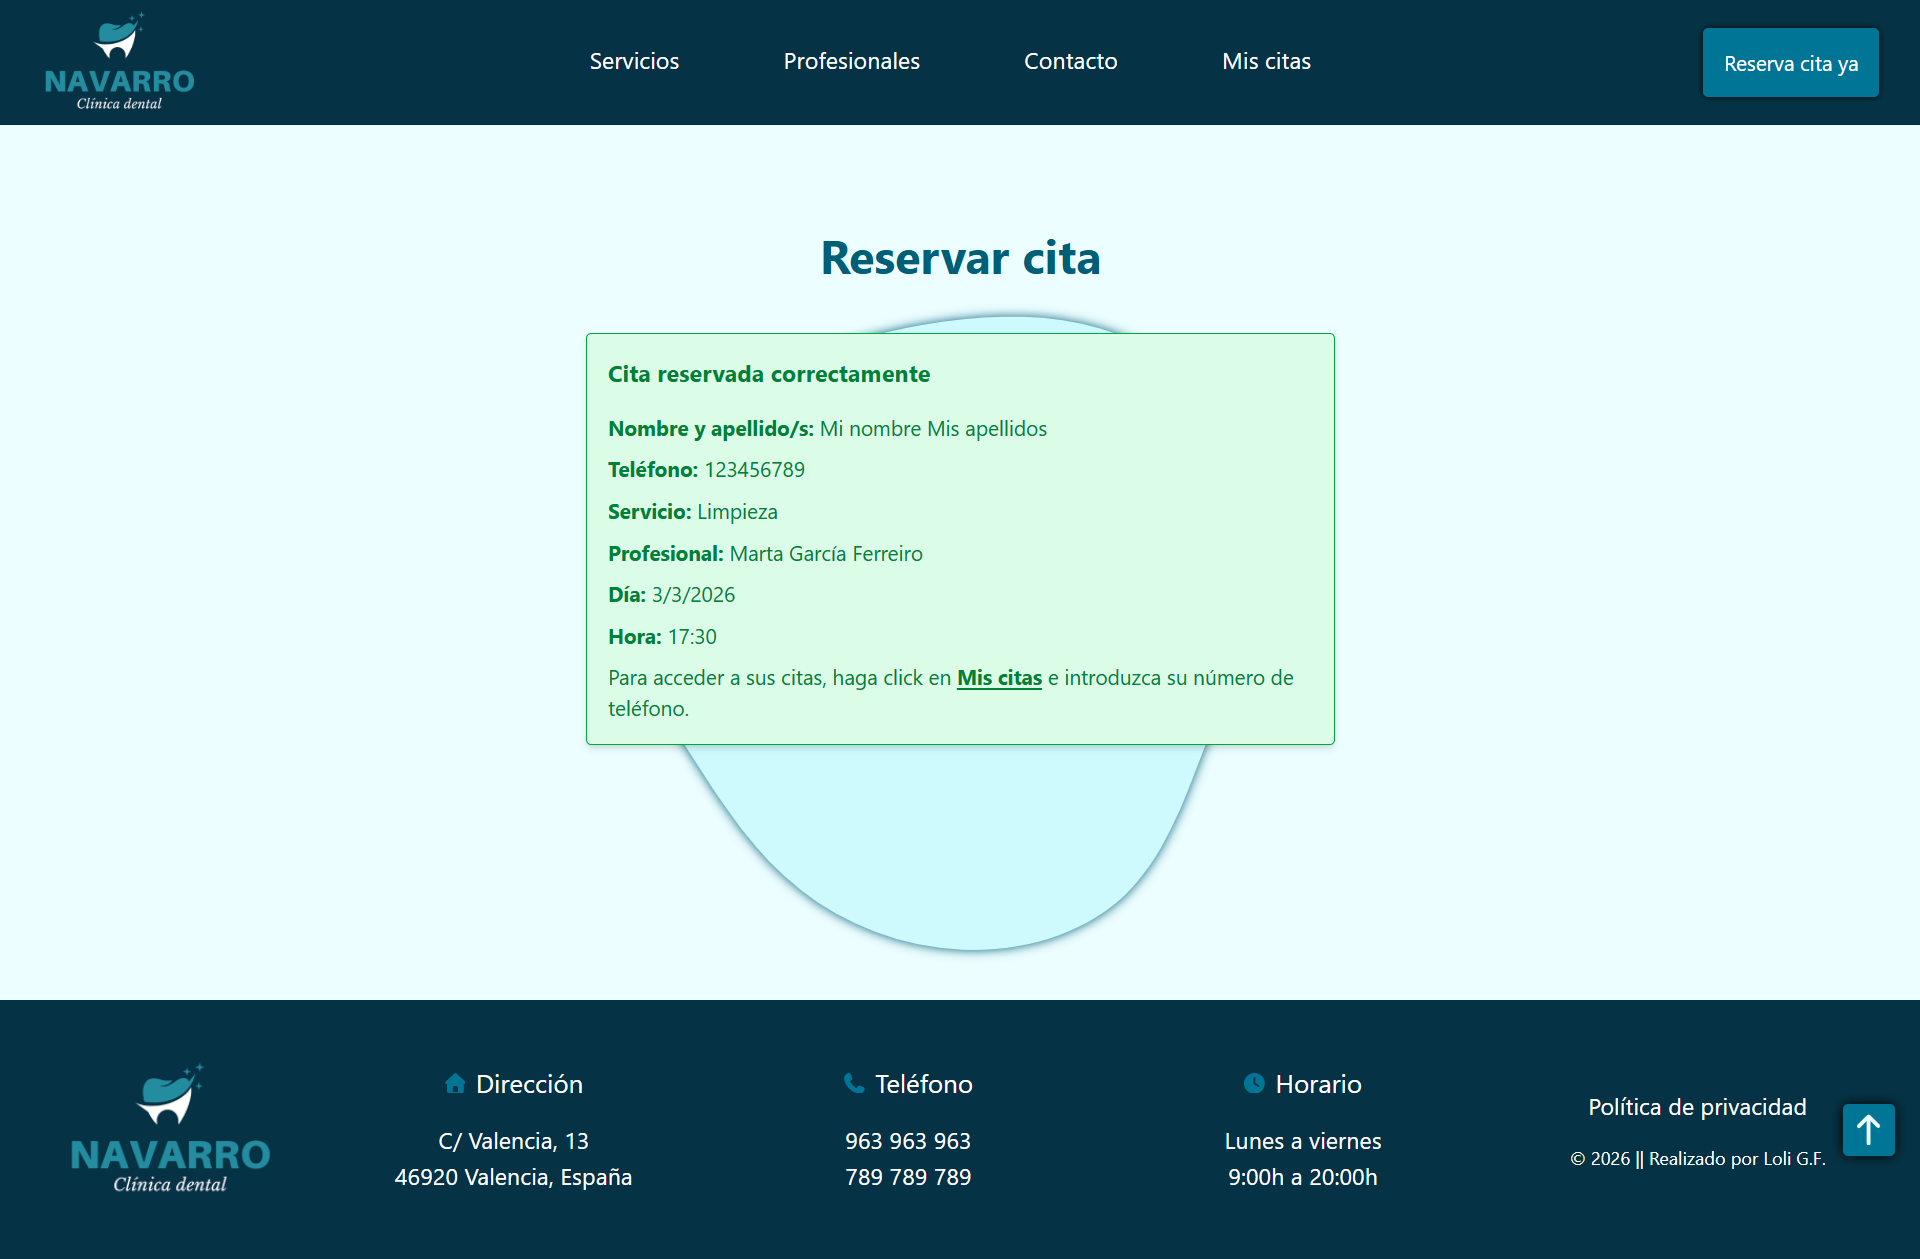
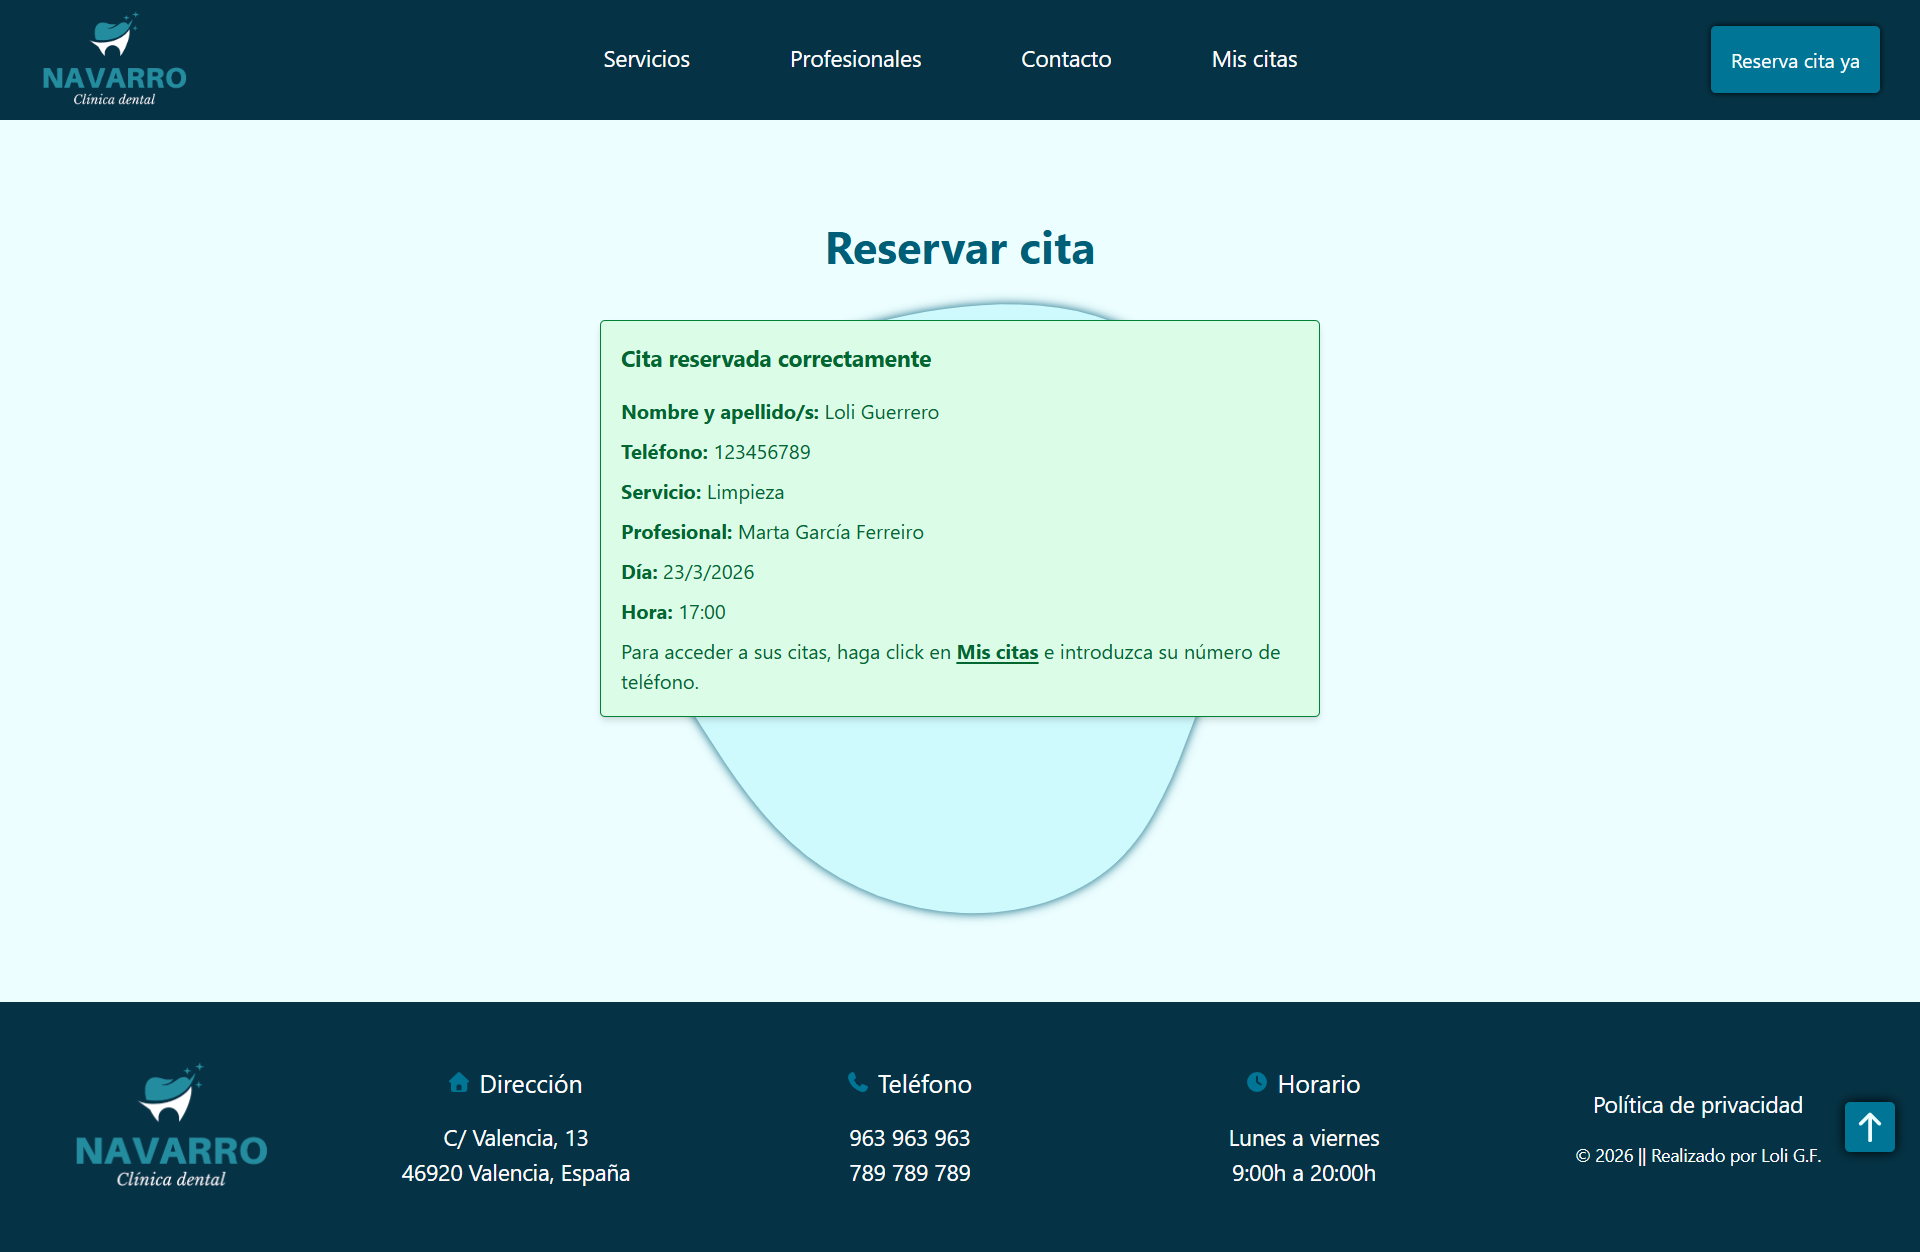
feat || actualización de localStorage a base datos Firebase
- Se actualiza la lógica de "Reservar Cita" y se cambia el localStorage por base de datos en Firebase.
- Se añade las imágenes de editar y eliminar cita.
- Se actualizan las imágenes de cita reservada y mostrar la cita reservada.

diff --git a/README.md b/README.md
@@ -56,6 +56,23 @@ Este proyecto ha sido desarrollado utilizando un stack moderno enfocado en la ex
 - **Frontend:** React con Vite (v19.2) | React DOM | DatePicker | date-fns | Swiper
 - **Estilos:** Tailwind CSS (v4.1) (Arquitectura Mobile-First).
 - **Base de Datos:** Firebase Cloud Firestore (Persistencia en tiempo real).
+- **Diagnóstico:** [React Doctor](https://www.npmjs.com/package/react-doctor) (CLI para análisis de salud y buenas prácticas en proyectos React).
+
+### Herramienta de diagnóstico: React Doctor
+
+Para analizar y mejorar la salud del proyecto React, se ha utilizado la herramienta CLI [react-doctor](https://www.npmjs.com/package/react-doctor):
+
+**Instalación global:**
+```bash
+npx -y react-doctor@latest .
+```
+
+**Uso en el proyecto:**
+```bash
+react-doctor
+```
+
+Ejecutará un análisis de buenas prácticas, dependencias y configuración del proyecto React, mostrando advertencias y sugerencias para mejorar la calidad y el rendimiento.
 
 ### Desarrollo Asistido por IA
 
@@ -95,10 +112,12 @@ Para el calendario que aparece en el formulario, se ha usado **React DatePicker*
 - Uso de la librería *React DatePicker* para seleccionar el día y hora de la cita.
 - Función para filtrar las horas pasadas para que no aparezcan en el calendario.
 - Filtro de profesionales según el servicio elegido.
-- Guardado de las citas en localStorage.
+- Mensaje de error si los campos no están completados, si el teléfono no es válido.
+- Guardado de las citas en base de datos con **Firebase**.
+- Mensaje de error si no se ha podido registrar la cita.
 - Mensaje de confirmación de la cita con los datos aportados al reservar.
-- Uso de *onSubmit* con la función *manejarSubmit* del localStorage
-- Inputs para introducir los datos: nombre, apellido/s, teléfono, servicio, profesional y calendario de fecha y hora. Y el botón para enviar el formulario.
+- Uso de *onSubmit* con la función *manejarSubmit* en el formulario.
+- Estilos para el botón según la actividad, si está registrando cita o si ya la ha registrado.
 
 ### Mis citas
 
@@ -108,6 +127,15 @@ Para el calendario que aparece en el formulario, se ha usado **React DatePicker*
 - Función para modificar cita, mostrando el calendario *React DatePicker* para cambiar la fecha y hora, y actualiza la cita. Muestra un mensaje si hay error o éxito al intentar modificarla.
 - Función para eliminar una cita, mostrando las citas guardadas, actualizando, filtrando las más próximas y si no quedan más citas, muestra un mensaje.
 - Las citas se muestran a través de map, que recorre el array de citas.
+
+### Migración de localStorage a Firebase Cloud Firestone
+
+- Todas las citas se almacenan, consultan y actualizan a tiempo real en **Firebase Cloud Firestone**
+- Ventajas:
+  - Acceso a las citas desde cualquier dispositivo.
+  - Sincronización en tiempo real.
+  - Seguridad configurable mediante reglas de Firestone.
+- La configuración de Firebase se encuentra en el archivo *firebase.js*
 
 ## Capturas de pantalla
 
@@ -127,11 +155,25 @@ Se muestra la confirmación de la cita reservada
 ### Mis Citas
 
 ![Página Mis Citas](mis-citas.png)
+
 <br />
-Se muestra la cita reservada, que se puede eliminar.
+Se muestra la cita reservada, que se puede modificar o eliminar.
 <br />
 
 ![Ver cita reservada](mostrar-cita-reservada.png)
+
+<br />
+Modal que se muestra al hacer click en modificar la cita.
+<br />
+
+![Modificar cita](editar-cita.png)
+
+<br />
+Modal que se muestra al intentar eliminar la cita.
+<br />
+
+![Eliminar cita](eliminar-cita.png)
+
 
 ## Diseño
 
